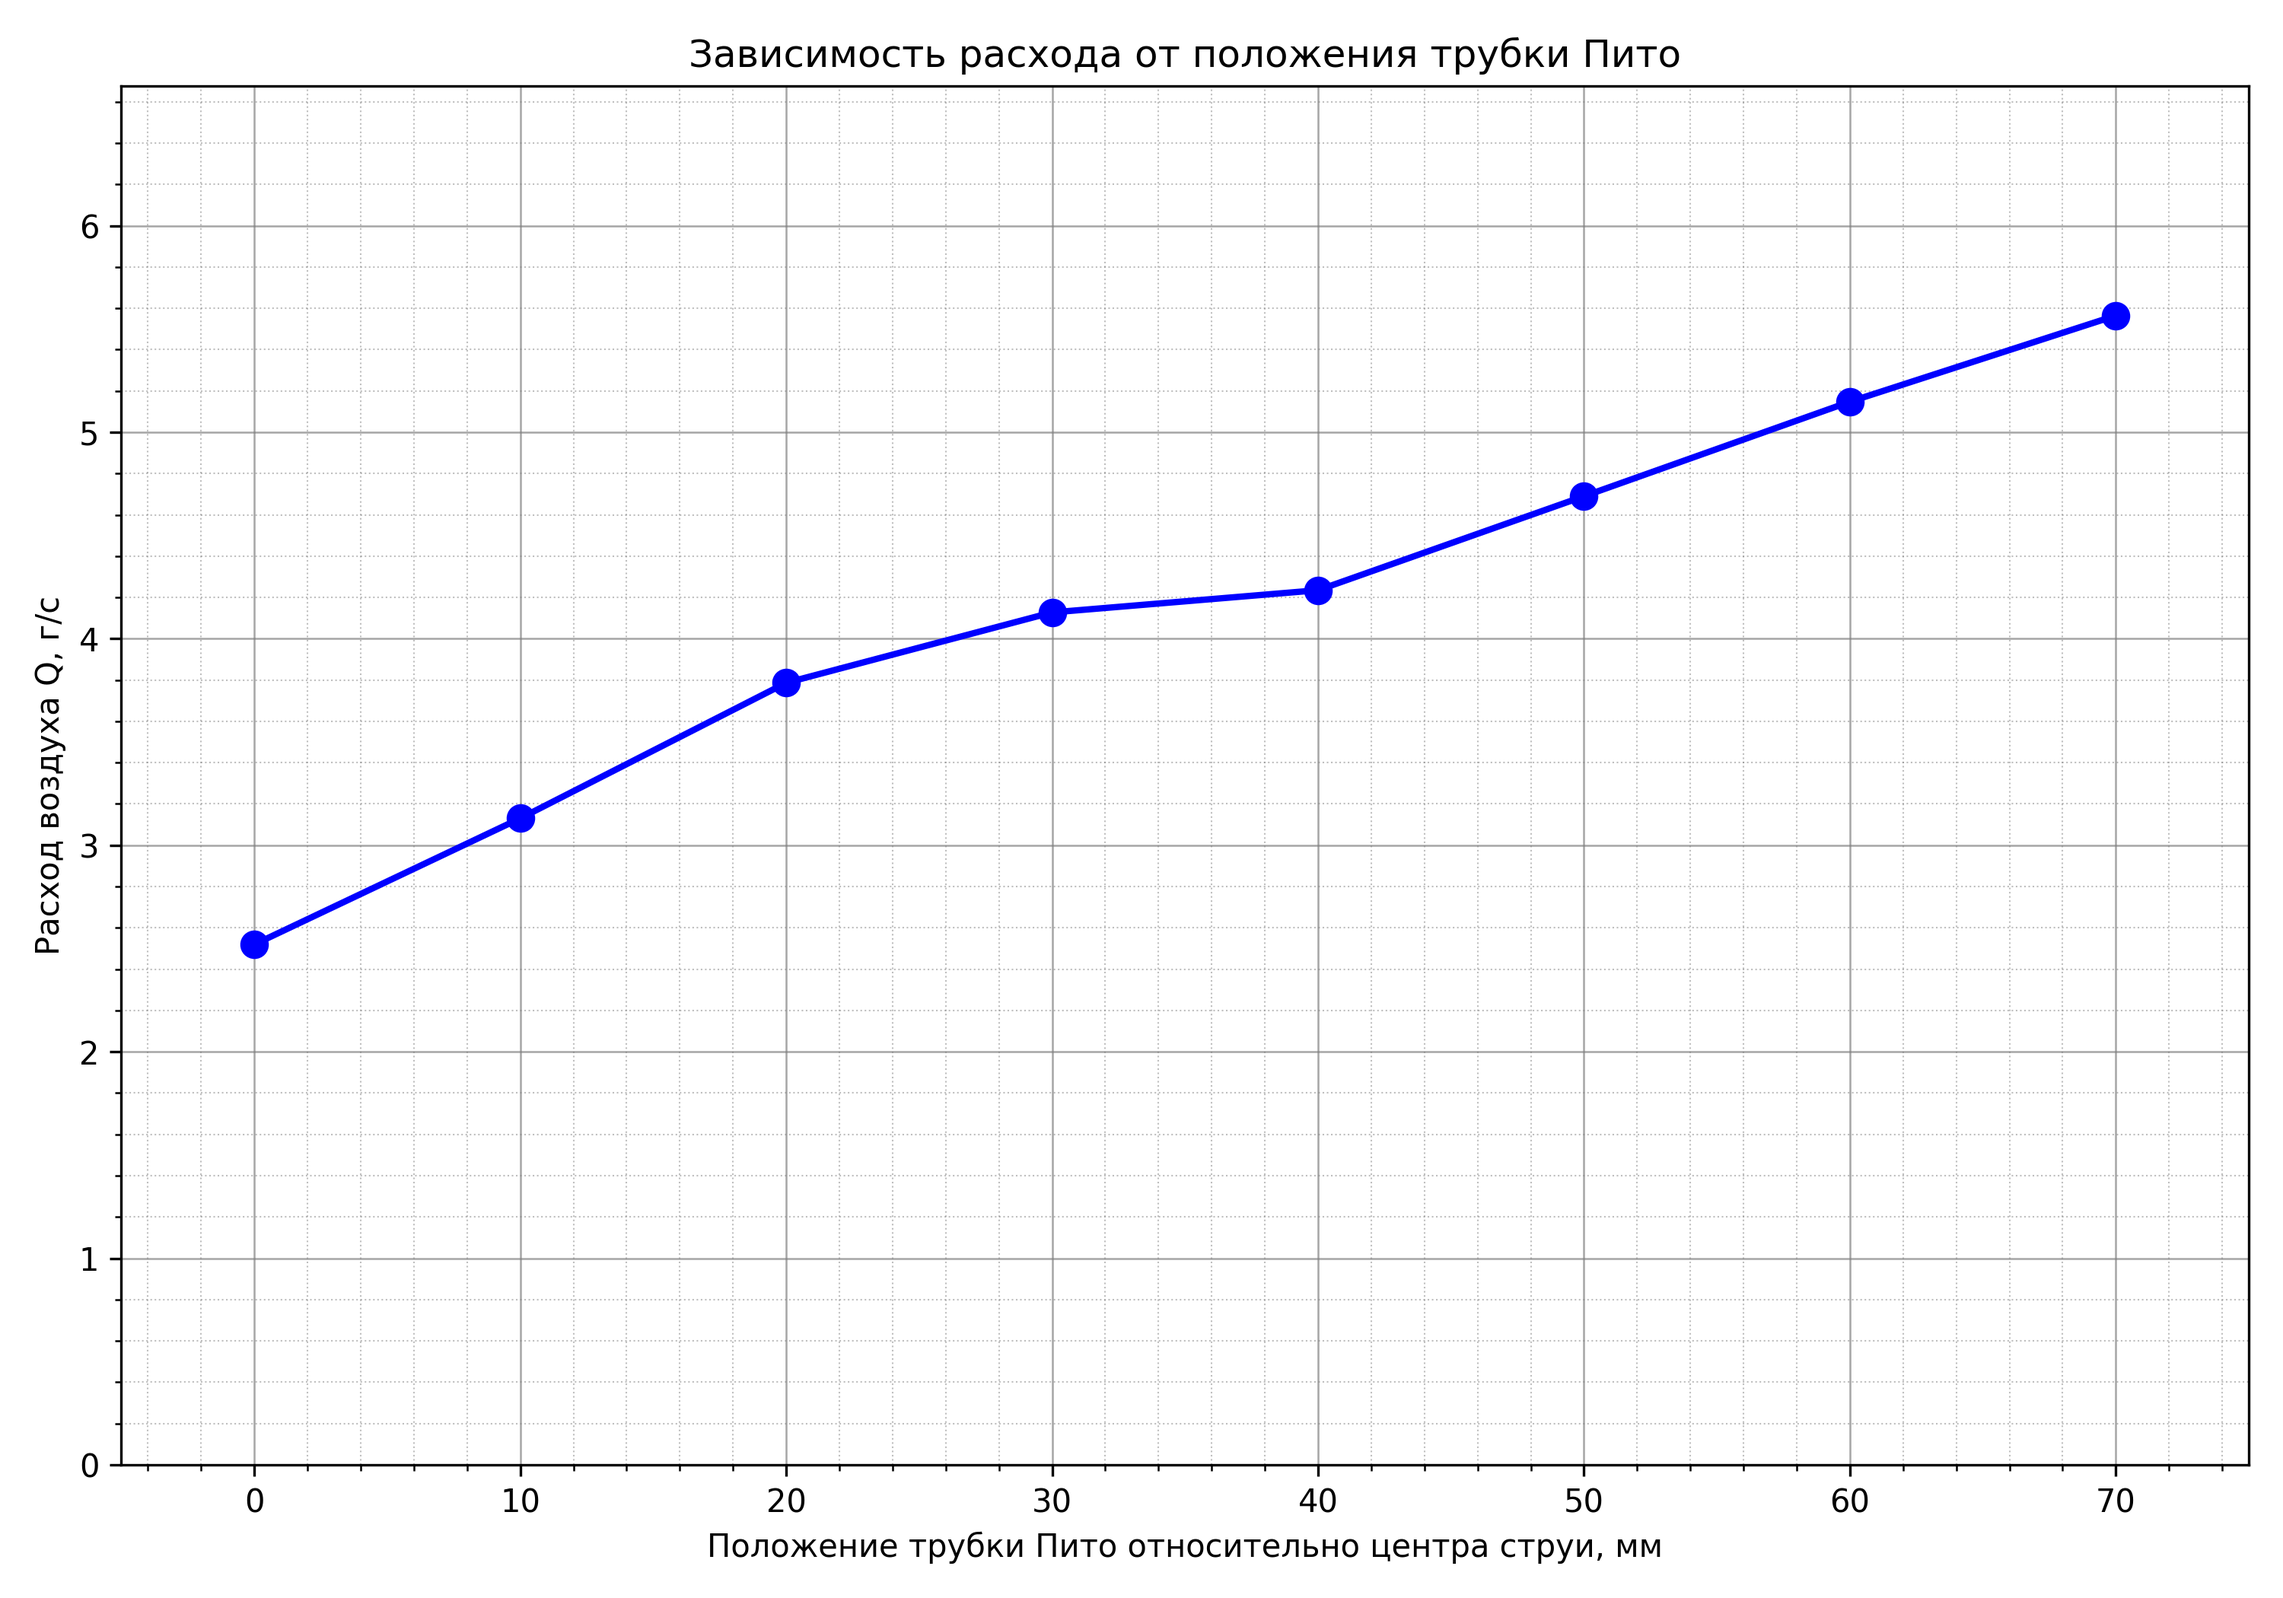
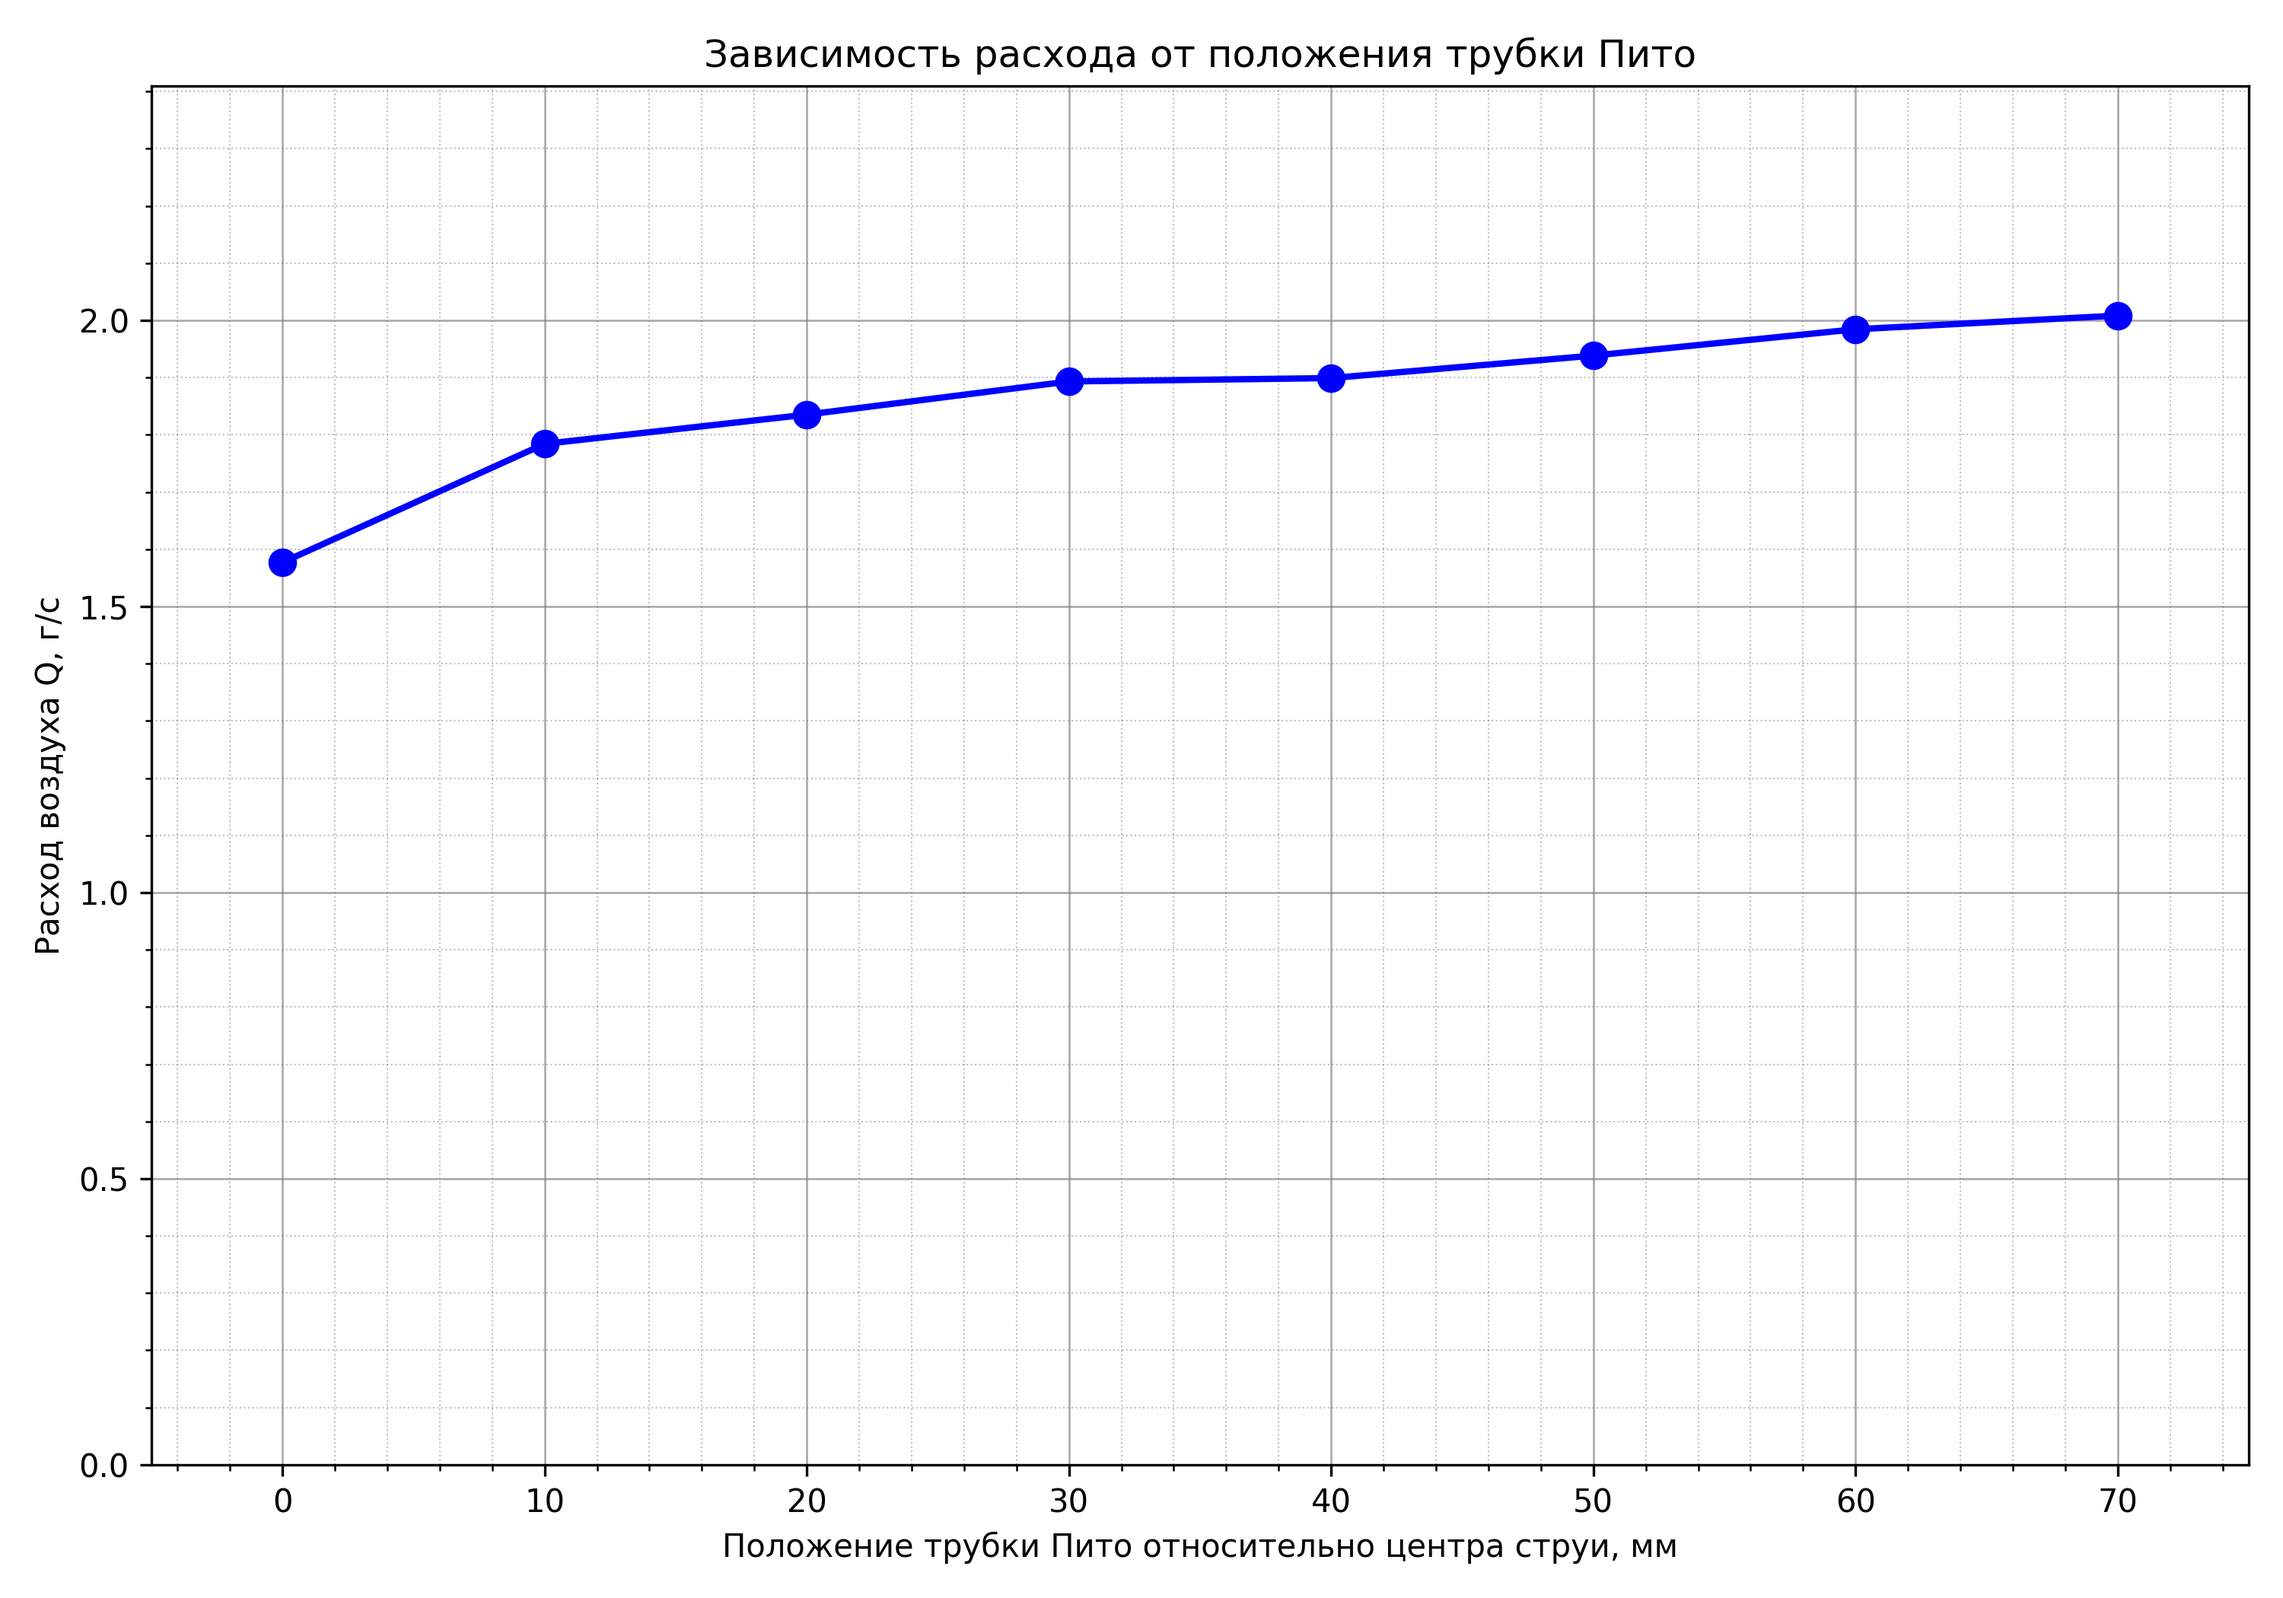
normalized the graph

diff --git a/plot_velocity.py b/plot_velocity.py
@@ -40,21 +40,21 @@ def process_velocity_profile(data_file, calib_k, calib_b, is_0txt=False, rho=1.2
     positions_m = positions_mm / 1000
 
     velocities = np.sqrt(2 * pressures_sym / rho)
-    velocities -= 1
+    velocities -= 9
 
     return positions_mm, velocities, positions_m
 
 
 def calculate_flow_rate(positions_m, velocities, positions_mm, distance_mm):
     thresholds = {
-        0: 10.0,
-        10: 10.0,
-        20: 10.0,
-        30: 10.7,
-        40: 10.0,
-        50: 10.0,
-        60: 10.4,
-        70: 9.6
+        0: 1.0,
+        10: 1.0,
+        20: 1.0,
+        30: 1.7,
+        40: 0.3,
+        50: 0.7,
+        60: 2.0,
+        70: 0.0
     }
 
     threshold = thresholds.get(distance_mm, 10.0)
